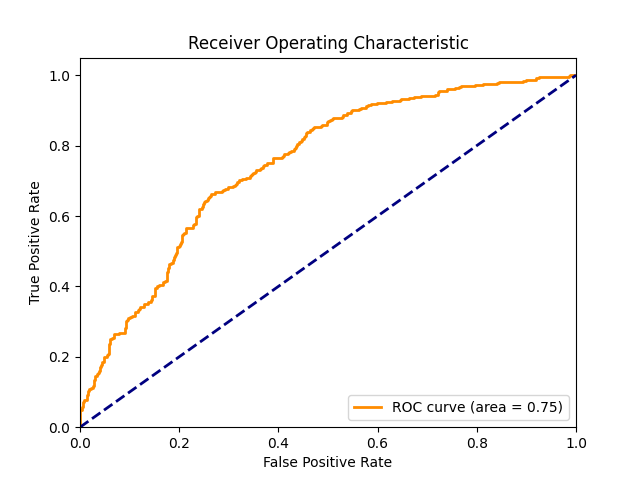
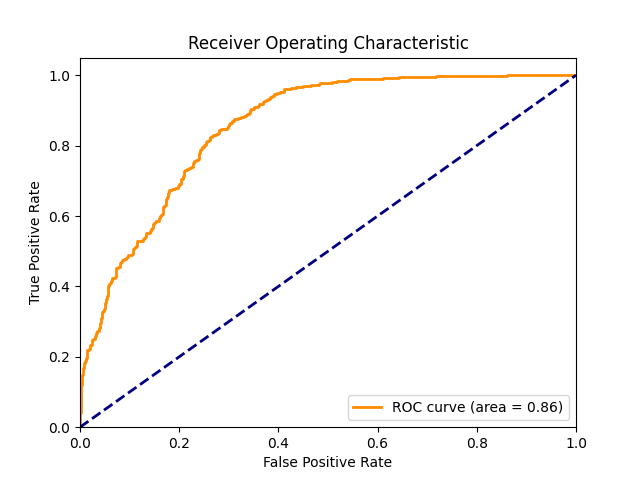
add upsampled and test it with good results

diff --git a/src/loss_functions.py b/src/loss_functions.py
@@ -57,8 +57,10 @@ class ConstractiveThresholdHingeLoss(nn.Module):
         out_vec_t1 = out_vec_t1.view(out_vec_t1.size(0), -1)
         
         distance = self.various_distance(out_vec_t0,out_vec_t1)
-        
-        similar_pair = torch.clamp(distance - self.threshold,min=0.0)
+        ## in my code the margin is used for dissimilar pairs 0
+        ## and the threshold is used for similar pairs 1
+        ## This might not be the regular usage of margin and threshold
+        similar_pair = torch.clamp(distance - self.threshold,min=0.0) 
         dissimilar_pair = torch.clamp(self.margin- distance,min=0.0)
         #dissimilar_pair = torch.clamp(self.margin-(distance-self.threshold),min=0.0)
         constractive_thresh_loss =  label* torch.pow(similar_pair,2) + (1-label) * torch.pow(dissimilar_pair,2)

diff --git a/src/main.py b/src/main.py
@@ -312,7 +312,7 @@ if __name__ == "__main__":
                     image_ids=['t1_aligned_stripped'], save_dir=args.slice_dir,
                     skip=args.skip, tumor_sensitivity=0.30, transform=transform, load_slices=args.load_slices)
         subject_images = ConcatDataset([aertsImages, remindImages])
-        model_type = SiameseExtUpsampled()
+        model_type = complexSiameseExt()
     pass
     # balance subject_images based on label
     
